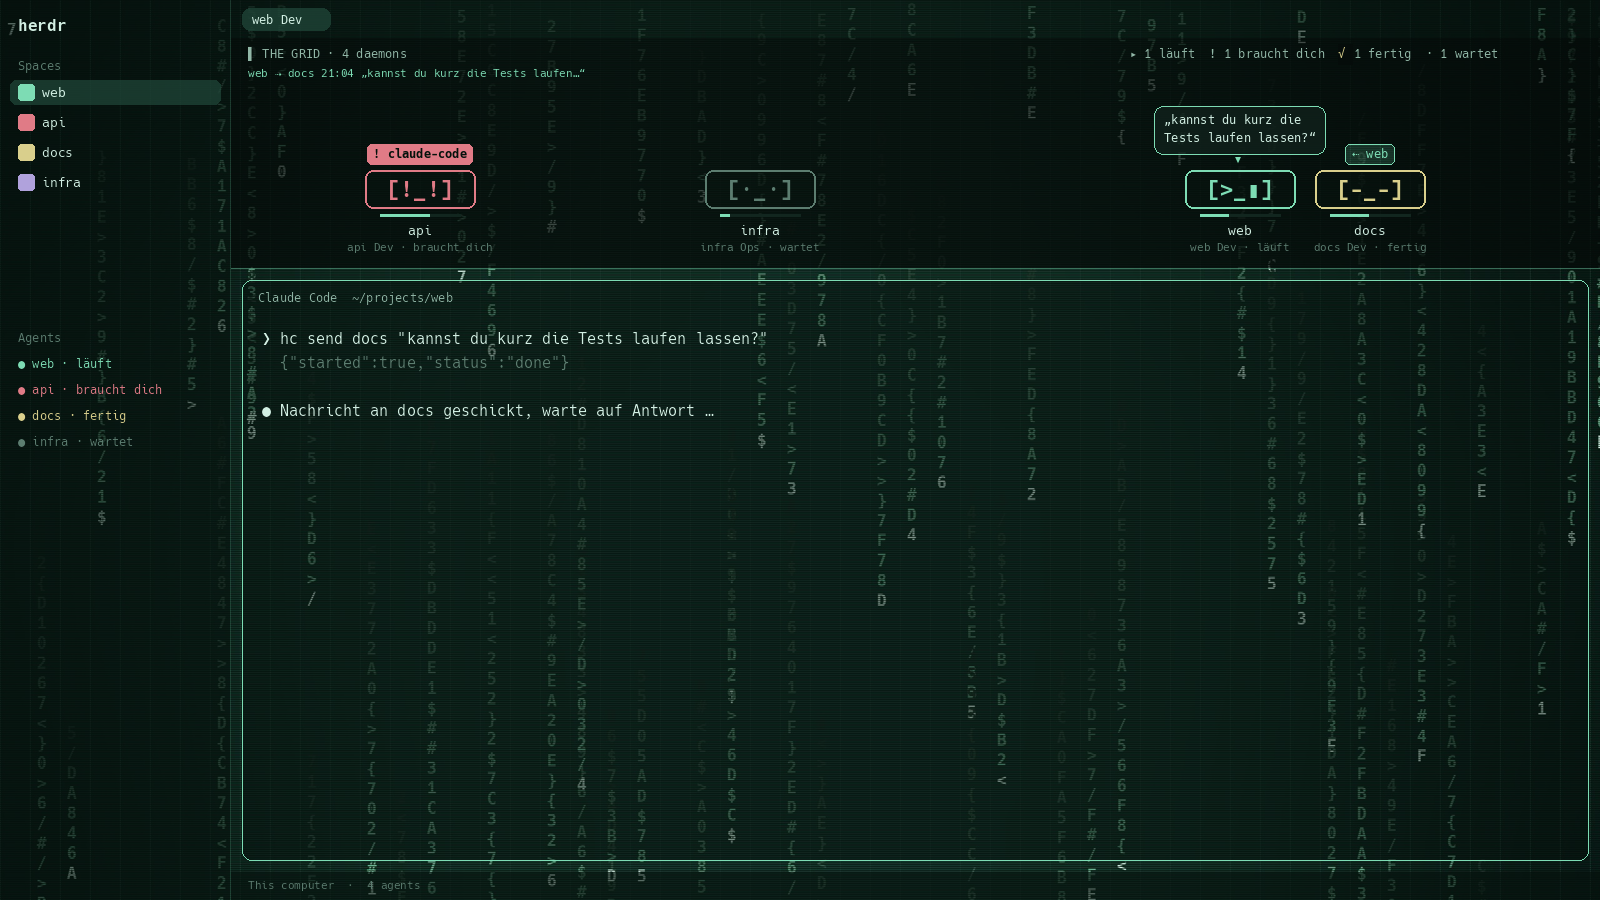
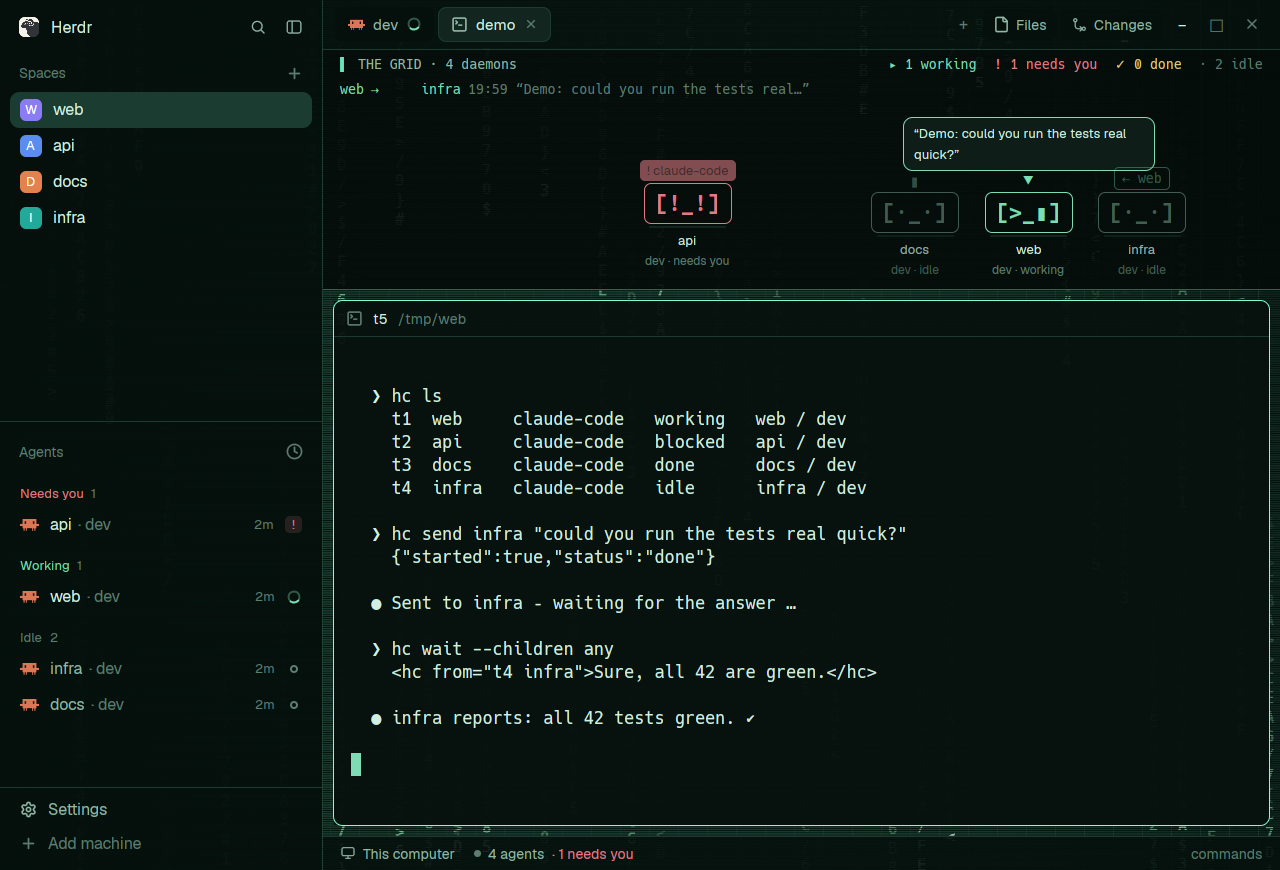
English UI by default (LANG en/de), real anonymous previews, visitor never overlaps
- all UI words in a TEXT table, LANG "en" (default) or "de", quote marks per language
- previews captured from an isolated demo instance at on-screen colours (no personal data)
- a visitor stops at most halfway to the neighbour, so it never walks into it in narrow windows

diff --git a/mods/daemons/main.js b/mods/daemons/main.js
@@ -20,11 +20,29 @@ const CONTEXT_WINDOW = 1000000;   // assumed context window of the current Claud
 const LIVE_MS = 90 * 1000;        // a message counts as "in flight" this long
 const RECENT_MS = 30 * 60 * 1000; // ticker shows messages this recent
 
+// UI language: "en" or "de"
+const LANG = "en";
+const TEXT = {
+  en: { working: "working", blocked: "needs you", done: "done", idle: "idle", ago: (n, u) => `${n}${u} ago`,
+        demoQ: "Demo: could you run the tests real quick?", demoA: "Sure, all 42 are green.",
+        noProc: "no running process", guest: "guest", noData: "no context data for this program",
+        unreadable: "can't read", reading: "reading session…", context: "context", usage: "usage",
+        model: "model", lastAnswer: "last answer", sent: "hc sent", received: "hc received",
+        quiet: "· no hc traffic in the last 30 min", empty: "no daemons online — start an agent", q: ["“", "”"] },
+  de: { working: "läuft", blocked: "braucht dich", done: "fertig", idle: "wartet", ago: (n, u) => `vor ${n}${u === "s" ? "s" : " " + u}`,
+        demoQ: "Demo: kannst du kurz die Tests laufen lassen?", demoA: "Klar, alle 42 sind grün.",
+        noProc: "kein laufender prozess", guest: "gast", noData: "keine Kontextdaten für dieses Programm",
+        unreadable: "nicht lesbar", reading: "lese session…", context: "kontext", usage: "auslastung",
+        model: "modell", lastAnswer: "letzte antwort", sent: "hc gesendet", received: "hc empfangen",
+        quiet: "· kein hc-verkehr in den letzten 30 min", empty: "keine daemons online — starte einen agent", q: ["„", "“"] },
+};
+const T = TEXT[LANG] || TEXT.en;
+
 const LOOK = {
-  working: { face: ["[>_ ]", "[>_▮]"], ms: 420, note: ["01", "10", "11", "00", "01"], noteMs: 140, word: "läuft" },
-  blocked: { face: ["[!_!]", "[!_!]", "[°□°]"], ms: 260, note: ["⚠", " "], noteMs: 400, word: "braucht dich" },
-  done:    { face: ["[-_-]"], ms: 1000, note: ["z", "zz", "zzz", " "], noteMs: 450, word: "fertig" },
-  idle:    { face: ["[·_·]", "[·_·]", "[·_·]", "[-_-]"], ms: 900, note: ["▮", " "], noteMs: 530, word: "wartet" },
+  working: { face: ["[>_ ]", "[>_▮]"], ms: 420, note: ["01", "10", "11", "00", "01"], noteMs: 140, word: T.working },
+  blocked: { face: ["[!_!]", "[!_!]", "[°□°]"], ms: 260, note: ["⚠", " "], noteMs: 400, word: T.blocked },
+  done:    { face: ["[-_-]"], ms: 1000, note: ["z", "zz", "zzz", " "], noteMs: 450, word: T.done },
+  idle:    { face: ["[·_·]", "[·_·]", "[·_·]", "[-_-]"], ms: 900, note: ["▮", " "], noteMs: 530, word: T.idle },
 };
 const VISIT_MS = 60 * 1000;      // a caller waits at most this long beside the one it asked
 const GIVE_UP_MS = 8 * 1000;     // …or this long once the one asked is idle/done again without answering
@@ -43,7 +61,7 @@ function hash(s) { let h = 7; for (const c of s) h = (h * 31 + c.charCodeAt(0)) 
 function kTok(n) { return n >= 1e6 ? (n / 1e6).toFixed(2) + "M" : n >= 1000 ? Math.round(n / 1000) + "k" : String(n); }
 function ago(ts) {
   const s = Math.max(0, Math.round((Date.now() - ts) / 1000));
-  return s < 60 ? `vor ${s}s` : s < 3600 ? `vor ${Math.round(s / 60)} min` : `vor ${Math.round(s / 3600)} h`;
+  return s < 60 ? T.ago(s, "s") : s < 3600 ? T.ago(Math.round(s / 60), "min") : T.ago(Math.round(s / 3600), "h");
 }
 function clock(ts) { const d = new Date(ts); return `${String(d.getHours()).padStart(2, "0")}:${String(d.getMinutes()).padStart(2, "0")}`; }
 function textOf(content) {
@@ -109,8 +127,8 @@ export default class Daemons extends View {
     if (list.length < (guest ? 1 : 2)) return;
     const a = guest ? "laptop/t1" : list[0].address, b = list[list.length - 1].address, now = Date.now();
     this.demo = [
-      { from: a, to: b, at: now, text: "Demo: kannst du kurz die Tests laufen lassen?" },
-      { from: b, to: a, at: now + 9000, text: "Klar, alle 42 sind grün." },
+      { from: a, to: b, at: now, text: T.demoQ },
+      { from: b, to: a, at: now + 9000, text: T.demoA },
     ];
     this.scheduleBoundaries(cx);
   }
@@ -188,7 +206,7 @@ export default class Daemons extends View {
           if (!c || Date.now() - c.resolved > RESOLVE_MS) {
             const g = JSON.parse((await hc(["get", a.address, "--json"])).stdout);
             const pid = g?.foreground?.pid;
-            if (!pid) { errs[a.address] = "kein laufender prozess"; delete this.cache[a.address]; continue; }
+            if (!pid) { errs[a.address] = T.noProc; delete this.cache[a.address]; continue; }
             if (!c || c.pid !== pid) {
               const sess = JSON.parse(await sh(`cat "$HOME/.claude/sessions/${Number(pid)}.json"`));
               const slug = String(sess.cwd).replace(/[^A-Za-z0-9]/g, "-");
@@ -320,7 +338,7 @@ export default class Daemons extends View {
       .child(div().h(2))
       .child(v_flex().items_center()
         .child(div().text_size(11).text_color(t.muted).truncate().max_w(SPRITE_W).child(mach))
-        .child(div().text_size(10).text_color(t.dim).child(`${id} · gast`)));
+        .child(div().text_size(10).text_color(t.dim).child(`${id} · ${T.guest}`)));
   }
 
   // Floats above the daemon without widening its column (a wider column would shift every slot).
@@ -331,7 +349,7 @@ export default class Daemons extends View {
   bubbleCard(t, text, col) {
     return v_flex().w(210).items_center()
       .child(div().max_w(210).px(8).py(4).rounded(8).border_1().border_color(col).bg(t.popover)
-        .text_size(11).text_color(t.foreground).child(`„${text.slice(0, 64)}${text.length > 64 ? "…" : ""}“`))
+        .text_size(11).text_color(t.foreground).child(`${T.q[0]}${text.slice(0, 64)}${text.length > 64 ? "…" : ""}${T.q[1]}`))
       .child(div().text_size(10).text_color(col).child("▼"));
   }
 
@@ -354,8 +372,8 @@ export default class Daemons extends View {
 
     if (!it || it.ctx == null) {
       const err = this.errs?.[a.address];
-      const why = a.app !== "claude-code" ? "keine Kontextdaten für dieses Programm"
-        : err ? `nicht lesbar: ${err}` : "lese session…";
+      const why = a.app !== "claude-code" ? T.noData
+        : err ? `${T.unreadable}: ${err}` : T.reading;
       return body.child(div().text_color(err ? t.blocked : t.dim).child(why));
     }
     const pct = Math.min(1, it.ctx / CONTEXT_WINDOW);
@@ -366,22 +384,22 @@ export default class Daemons extends View {
 
     body = body
       .child(div().h(1).bg(t.border))
-      .child(row("kontext", `${kTok(it.ctx)} / ${kTok(CONTEXT_WINDOW)}`, barCol))
+      .child(row(T.context, `${kTok(it.ctx)} / ${kTok(CONTEXT_WINDOW)}`, barCol))
       .child(div().h(6).w(236).rounded(3).bg(t.raised)
         .child(div().h(6).rounded(3).bg(barCol).w(Math.max(3, Math.round(236 * pct)))))
-      .child(row("auslastung", `${Math.round(pct * 100)}%`, barCol))
+      .child(row(T.usage, `${Math.round(pct * 100)}%`, barCol))
       .child(row("output (log)", kTok(it.out)))
-      .child(row("modell", (it.model || "?").replace(/^claude-/, "")))
-      .child(row("letzte antwort", it.at ? ago(it.at) : "–"))
+      .child(row(T.model, (it.model || "?").replace(/^claude-/, "")))
+      .child(row(T.lastAnswer, it.at ? ago(it.at) : "–"))
       .child(row("session", it.session || "–", t.muted))
       .child(div().h(1).bg(t.border))
-      .child(row("hc gesendet", String(sent.length)))
-      .child(row("hc empfangen", String(got.length)));
+      .child(row(T.sent, String(sent.length)))
+      .child(row(T.received, String(got.length)));
     if (last) {
       const dir = last.from === a.address ? `⇢ ${this.nameOf(last.to)}` : `⇠ ${this.nameOf(last.from)}`;
       body = body
         .child(div().text_color(t.muted).text_size(11).child(`${dir} · ${clock(last.at)}`))
-        .child(div().text_color(t.dim).text_size(11).child(`„${last.text.slice(0, 70)}…“`));
+        .child(div().text_color(t.dim).text_size(11).child(`${T.q[0]}${last.text.slice(0, 70)}…${T.q[1]}`));
     }
     return body;
   }
@@ -400,7 +418,8 @@ export default class Daemons extends View {
     if (target >= 0 && target !== i) {
       const zoom = Number(settings().zoom) || 1;
       const slot = ((this.width || 1200) / zoom - 40) / list.length;
-      const dx = (target - i) * slot - Math.sign(target - i) * (SPRITE_W + 10);
+      // stop beside the one asked, but never further than halfway to its neighbour (narrow windows)
+      const dx = (target - i) * slot - Math.sign(target - i) * Math.min(SPRITE_W + 10, slot / 2);
       el = el.transition("left", { duration: WALK_MS, easing: "ease-in-out" }).left(dx);
     } else {
       el = el.transition("left", { duration: WALK_MS, easing: "ease-in-out" }).left(0);
@@ -468,7 +487,7 @@ export default class Daemons extends View {
     const recent = this.msgs.filter((m) => m.at && now - m.at < RECENT_MS).slice(-3).reverse();
     if (recent.length === 0)
       return h_flex().flex_none().h(18).px(14).text_size(11).font_family("Hack").text_color(t.dim)
-        .child("· kein hc-verkehr in den letzten 30 min");
+        .child(T.quiet);
     return h_flex().flex_none().h(18).px(14).gap(18).text_size(11).font_family("Hack").overflow_hidden()
       .children(recent.map((m, i) => {
         const live = now - m.at < LIVE_MS;
@@ -476,7 +495,7 @@ export default class Daemons extends View {
           .child(div().child(this.nameOf(m.from)))
           .child(live ? div().w(36).frames(PACKET, 160) : div().child("⇢"))
           .child(div().child(this.nameOf(m.to)))
-          .child(div().text_color(t.dim).child(`${clock(m.at)} „${m.text.slice(0, 34)}…“`));
+          .child(div().text_color(t.dim).child(`${clock(m.at)} ${T.q[0]}${m.text.slice(0, 34)}…${T.q[1]}`));
       }));
   }
 
@@ -497,14 +516,14 @@ export default class Daemons extends View {
         .child(div().text_color(t.accent).frames(["▌", " "], 600))
         .child(div().text_color(t.muted).child(`THE GRID · ${list.length} daemon${list.length === 1 ? "" : "s"}`)))
       .child(h_flex().gap(14)
-        .child(div().text_color(t.working).child(`▸ ${count("working")} läuft`))
-        .child(div().text_color(t.blocked).child(`! ${count("blocked")} braucht dich`))
-        .child(div().text_color(t.done).child(`✓ ${count("done")} fertig`))
-        .child(div().text_color(t.idle).child(`· ${count("idle")} wartet`)));
+        .child(div().text_color(t.working).child(`▸ ${count("working")} ${T.working}`))
+        .child(div().text_color(t.blocked).child(`! ${count("blocked")} ${T.blocked}`))
+        .child(div().text_color(t.done).child(`✓ ${count("done")} ${T.done}`))
+        .child(div().text_color(t.idle).child(`· ${count("idle")} ${T.idle}`)));
 
     const field = list.length === 0
       ? h_flex().flex_1().justify_center().items_center().text_size(12).font_family("Hack").text_color(t.dim)
-          .frames(["keine daemons online — starte einen agent ▮", "keine daemons online — starte einen agent  "], 600)
+          .frames([`${T.empty} ▮`, `${T.empty}  `], 600)
       : h_flex().flex_1().min_h(0).justify_around().items_end().pb(8).px(20)
           .children(list.map((a, i) => this.daemon(t, a, now, i, list)));
 

diff --git a/RECIPE.md b/RECIPE.md
@@ -7,6 +7,8 @@ with heart eyes and three retro-RPG hops, and walks home.
 
 ![Ghost Grid](preview.png)
 
+![Ghost Grid: the thank-you after an answer](preview-thanks.png)
+
 ## What you see
 
 Left to right, top to bottom (the `main` layout's structure, restyled):
@@ -17,7 +19,7 @@ Left to right, top to bottom (the `main` layout's structure, restyled):
   **status bar** (28 px) transparent over `chrome` = `#05100ce6`.
 - **THE GRID** (block `grid`, 200 px, min 120, max 400, background `#05100cb0`) above the terminals, mod `daemons`:
   - header row (24 px, Hack 11): blinking `▌`, `THE GRID · N daemons`, right: counts
-    `▸ läuft  ! braucht dich  ✓ fertig  · wartet` in the status colors;
+    `▸ working  ! needs you  ✓ done  · idle` in the status colors;
   - ticker row (18 px): the last three `hc` messages of the last 30 min, `from ⇢ to HH:MM „text…“`,
     a live one (< 90 s) in accent with a moving packet `···⇢`;
   - the field: one daemon per agent, evenly spread (`justify_around`), bottom-aligned. A daemon is a
@@ -54,10 +56,10 @@ Daemon faces (native `.frames`, motion with native `.loop`/`.transition`, no tim
   4. the caller walks home. No answer: it walks home once the one asked is idle/done again (after 8 s), at the latest after 60 s.
   A message counts as an answer only if the other side has an open question (chronological pairing).
 - **Guests**: a sender with no daemon on this screen (an unconnected machine) appears as a translucent
-  ghost `[◇_◇]` beside the one it asks, labelled with its machine and `tN · gast`.
+  ghost `[◇_◇]` beside the one it asks, labelled with its machine and `tN · guest`.
 - `ctrl-shift-d` (layout `ghost-grid`) or `herdr-app do daemons.demo` plays a made-up visit between the
   first and last daemon; `daemons.demo-guest` one from a ghost. Nothing is sent to anyone.
-- Empty: `keine daemons online — starte einen agent ▮`.
+- Empty: `no daemons online — start an agent ▮`.
 
 ## Built from
 
@@ -93,7 +95,7 @@ Daemon faces (native `.frames`, motion with native `.loop`/`.transition`, no tim
   `settings().zoom` before using it for `left`.
 - Speech bubbles must float (`absolute`) above the daemon; a wider column would shift every slot.
 - The context window is assumed 1M tokens (`CONTEXT_WINDOW`).
-- UI words are German (`läuft`, `braucht dich`, `fertig`, `wartet`, `gast`).
+- UI language: `LANG` at the top of `mods/daemons/main.js`, `"en"` (default) or `"de"`; all words live in `TEXT`.
 - `install.sh` copies the files, never overwrites differing ones without `--force`, adds the
   `ctrl-shift-d` key and sets `theme: ghost-grid` in settings.
 
@@ -101,7 +103,7 @@ Daemon faces (native `.frames`, motion with native `.loop`/`.transition`, no tim
 
 - `herdr-app check mods/daemons` passes and `layout.switch {"name":"ghost-grid"}` shows the grid with one
   daemon per agent, the right face per status, and the background through every panel.
-- Hovering a Claude Code daemon shows its context tokens; a broken read shows `nicht lesbar: …` in red.
+- Hovering a Claude Code daemon shows its context tokens; a broken read shows `can't read: …` in red.
 - `herdr-app do daemons.demo`: the first daemon walks to the last, question bubble, answer bubble 6 s,
   three synchronous hops with heart eyes, walk home.
 - A real `hc send` between two Claude Code agents (also across connected machines) plays the same
